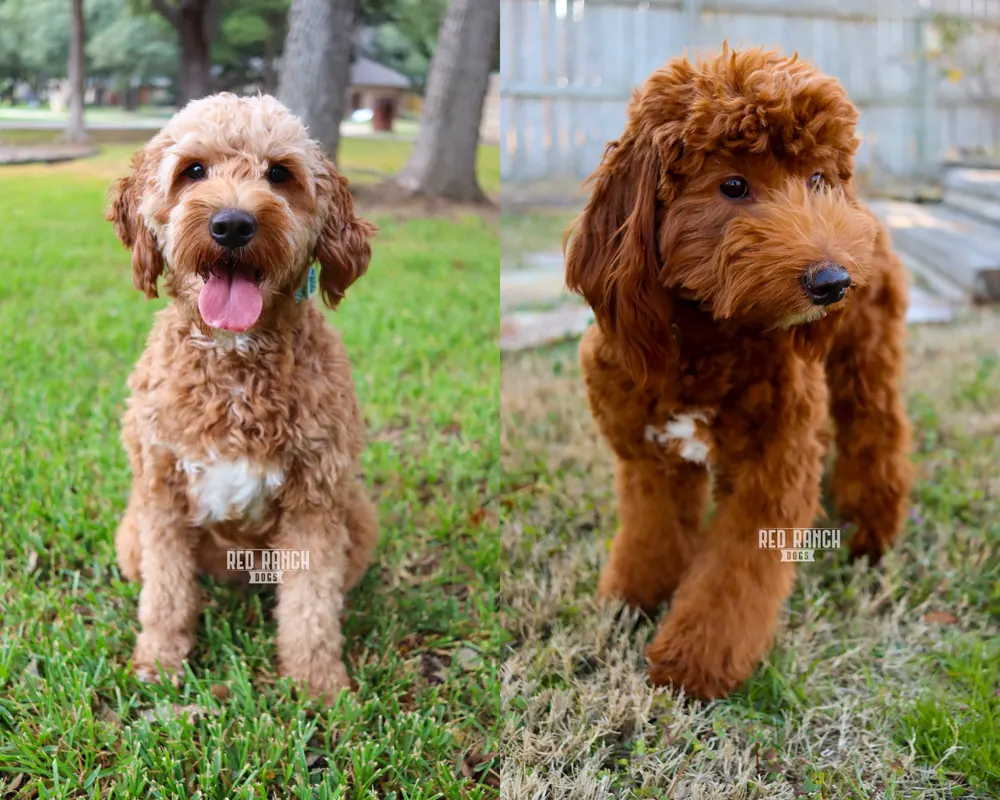
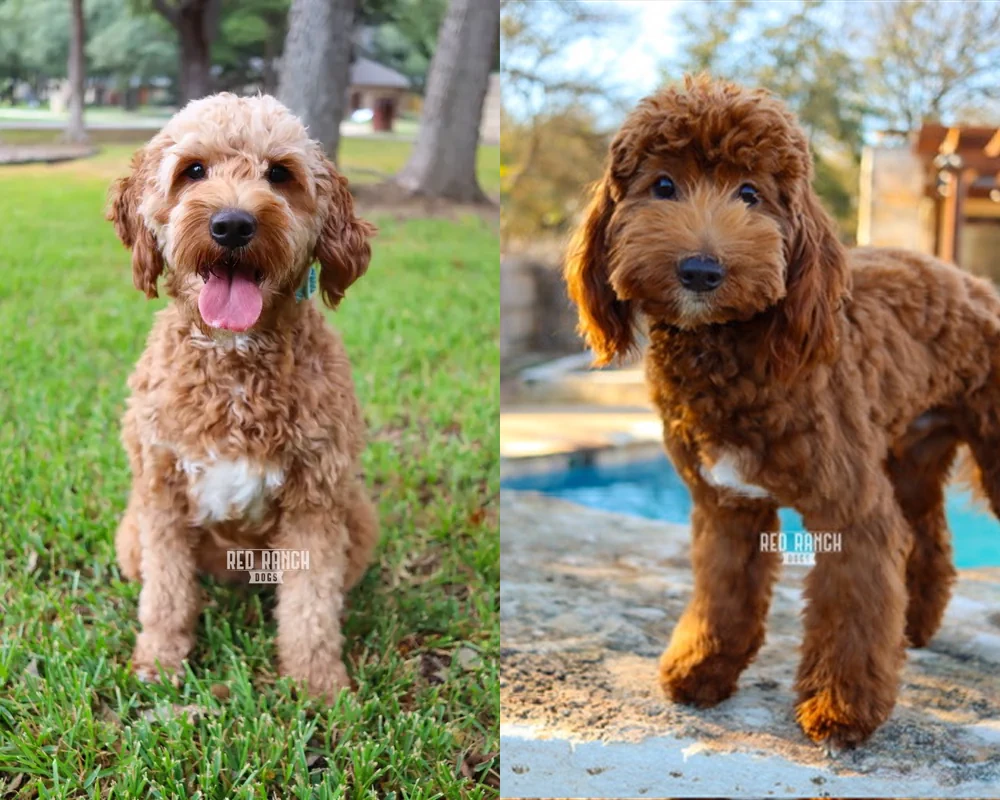
Replace Waylon website portraits with approved retouch

diff --git a/src/App.jsx b/src/App.jsx
@@ -47,27 +47,31 @@ import {
   navGroups,
   parentDogs,
   previousLitterArchiveGroups,
-  previousLitterDetails,
+  previousLitterDetails as previousLitterData,
   priceGroups,
   puppyIncludedSections,
   reproductiveSections,
   reviews,
   stopMarkingGuide,
   studCatalog,
-  studDetails,
+  studDetails as studDetailData,
   teamMembers
 } from "./data/siteData.js";
 import breedProfiles from "./data/breeds.json";
 import puppyProfiles from "./data/puppies.json";
 import litterProfiles from "./data/litters.json";
 import { resolveImageReferences } from "./imageVersions.js";
-import parentProfiles from "./data/parents.json";
+import parentProfileData from "./data/parents.json";
 import testimonialProfiles from "./data/testimonials.json";
 import faqProfiles from "./data/faqs.json";
 import pricingProfiles from "./data/pricing.json";
 import teamProfiles from "./data/team.json";
 
 import GalleryViewer from "./GalleryViewer.jsx";
+
+const parentProfiles = resolveImageReferences(parentProfileData);
+const studDetails = resolveImageReferences(studDetailData);
+const previousLitterDetails = resolveImageReferences(previousLitterData);
 
 function pathNow() {
   return window.location.pathname.replace(/\/$/, "") || "/";
@@ -4390,7 +4394,8 @@ function ParentDetailPage({ parent }) {
   const breed = breedProfiles.find((item) => item.slug === parent.breedSlug);
   const roleLabel = parent.role === "stud" ? "Stud" : "Mama";
   const familyRole = parent.role === "stud" ? "stud" : "mama";
-  const gallery = parent.photos?.length ? parent.photos : parent.mainPhoto ? [parent.mainPhoto] : [];
+  const parentGallery = parent.photos?.length ? parent.photos : parent.mainPhoto ? [parent.mainPhoto] : [];
+  const gallery = parent.slug === "waylon-jennings" ? [...new Set(parentGallery)] : parentGallery;
 
   return (
     <Layout>

diff --git a/src/imageVersions.js b/src/imageVersions.js
@@ -1,5 +1,8 @@
 // Logical image paths remain stable for source sheets; these aliases avoid stale browser caches.
 export const imageVersions = Object.freeze({
+  "/images/previous-litters/birdie-waylon-jennings.webp": "/images/previous-litters/birdie-waylon-jennings-vd1857c611808.webp",
+  "/images/studs/waylon-jennings-mini-goldendoodle-stud-red-ranch-dogs.jpg": "/images/studs/waylon-jennings-red-ranch-dogs-v08e2c6544597.webp",
+  "/images/studs/waylon-jennings-red-ranch-dogs.webp": "/images/studs/waylon-jennings-red-ranch-dogs-v08e2c6544597.webp",
   "/images/puppies/2026-11-10/daisy/betty-lou-week-2-img-8804.webp": "/images/puppies/2026-11-10/daisy/betty-lou-week-2-img-8804-v7275460802a8.webp",
   "/images/puppies/2026-11-10/daisy/betty-lou-week-2-img-8805.webp": "/images/puppies/2026-11-10/daisy/betty-lou-week-2-img-8805-vea135463a706.webp",
   "/images/puppies/2026-11-10/evie/columbo-week-4-img-8688.webp": "/images/puppies/2026-11-10/evie/columbo-week-4-img-8688-veb6c0218f0ee.webp",
